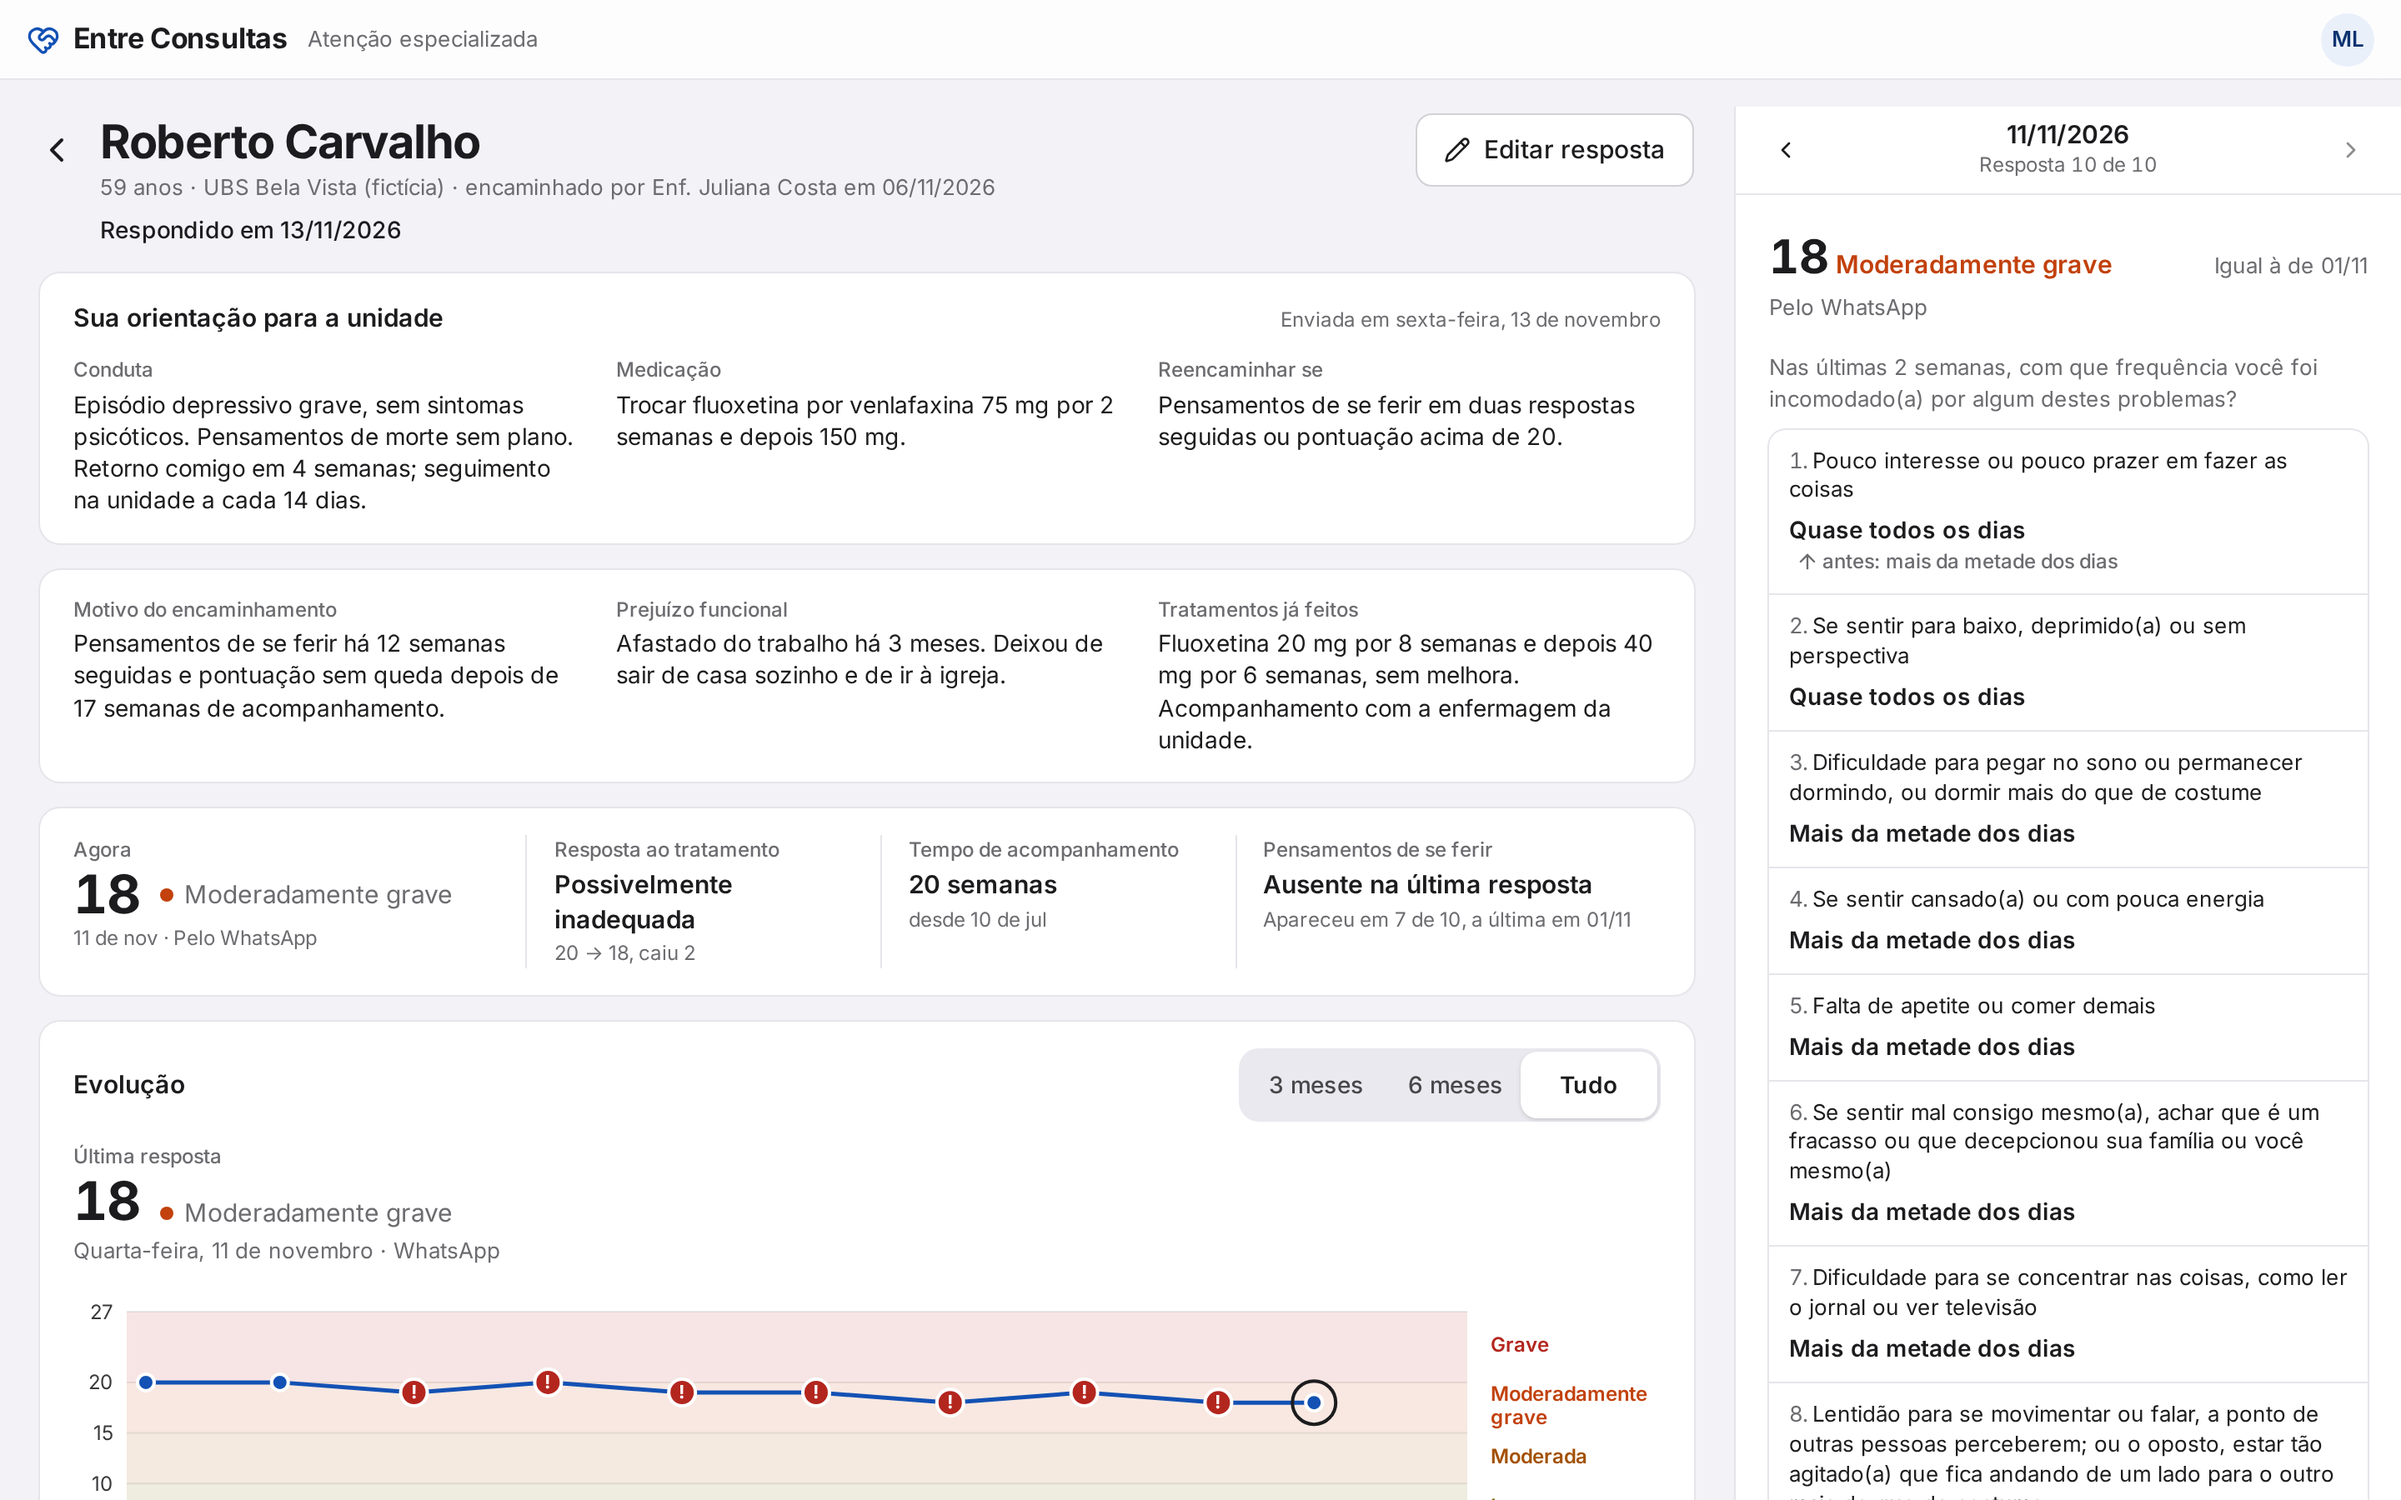
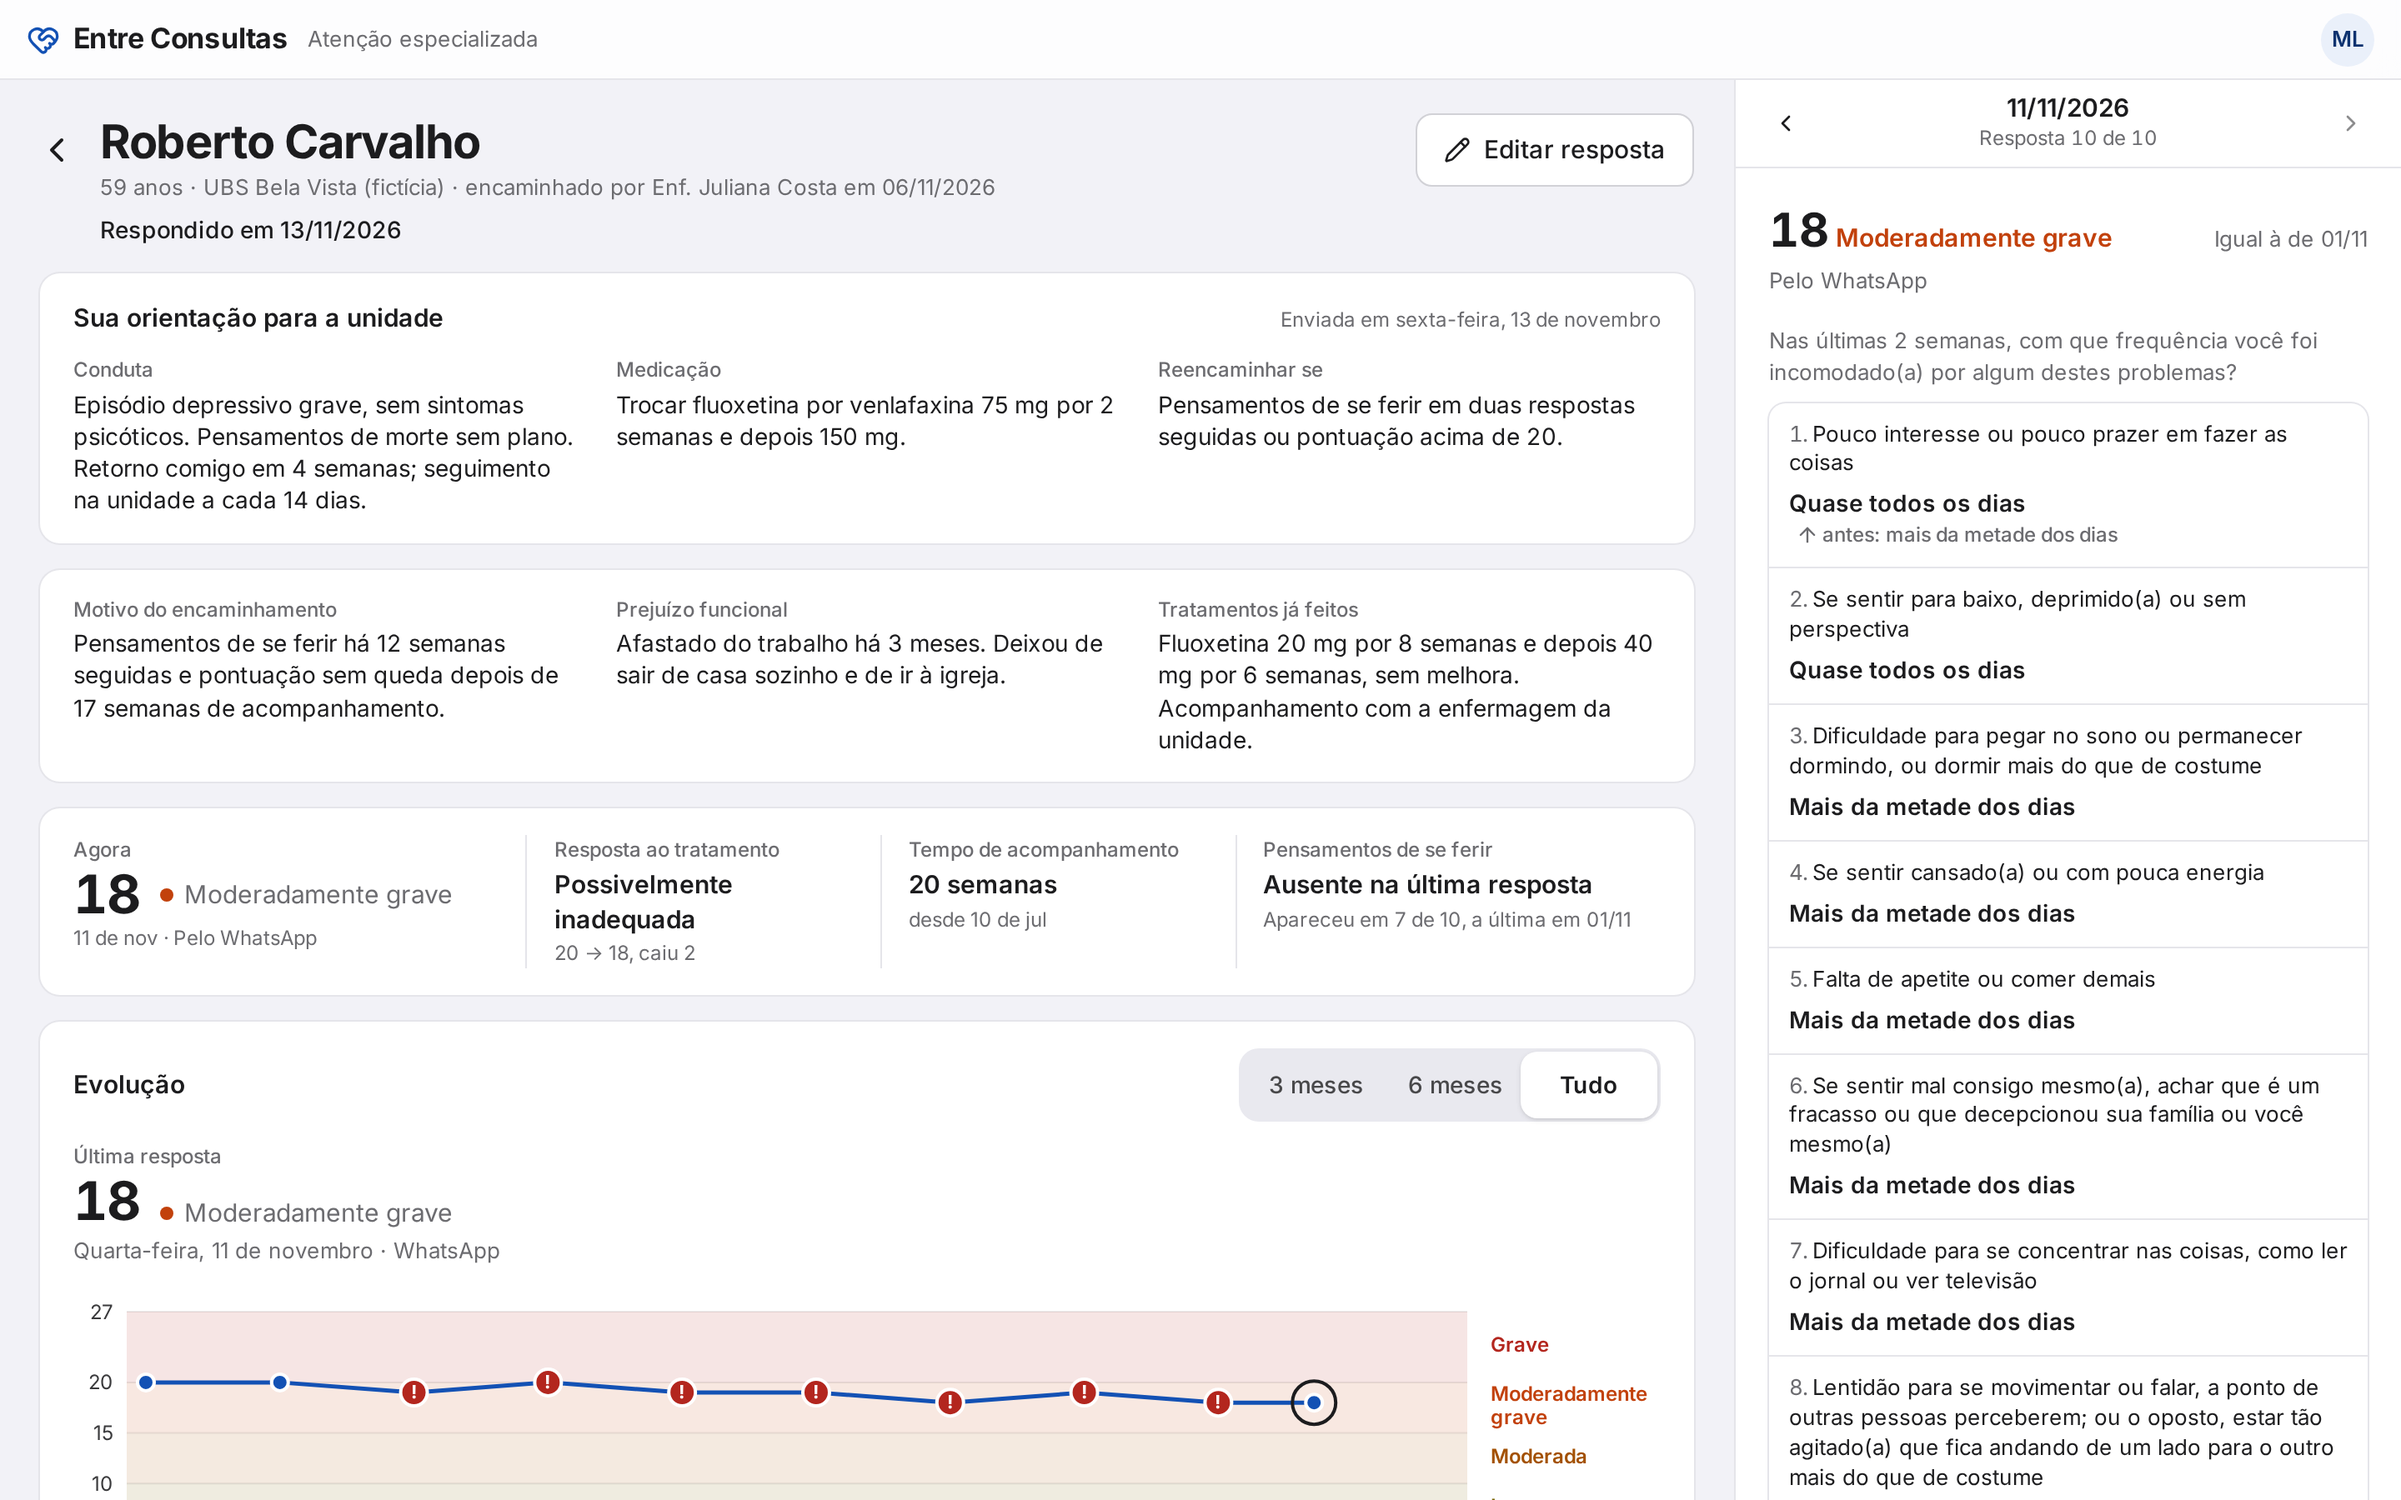
fix(psiquiatra): encostar o painel de respostas no cabeçalho novo
O cabeçalho baixou de 64 para 48px e o painel fixo continuava em top-16, deixando uma faixa vazia entre os dois.

Changed region(s): [[0.7188, 0.1244, 0.9688, 0.9956], [0.8125, 0.0622, 0.9062, 0.1244], [0.9062, 0.1556, 1.0, 0.1867]]

diff --git a/src/componentes/PainelEvolucao.tsx b/src/componentes/PainelEvolucao.tsx
@@ -98,7 +98,7 @@ function InspetorResposta({
     <aside
       data-inspetor
       aria-label="Respostas do questionário"
-      className="fixed top-16 right-0 bottom-0 z-30 flex w-[400px] flex-col border-l bg-card"
+      className="fixed top-12 right-0 bottom-0 z-30 flex w-[400px] flex-col border-l bg-card"
     >
       <div className="flex items-center gap-1 border-b px-2 py-1">
         <Button variant="ghost" size="icon" aria-label="Resposta anterior" disabled={indice === 0} onClick={() => irPara(indice - 1)}>
